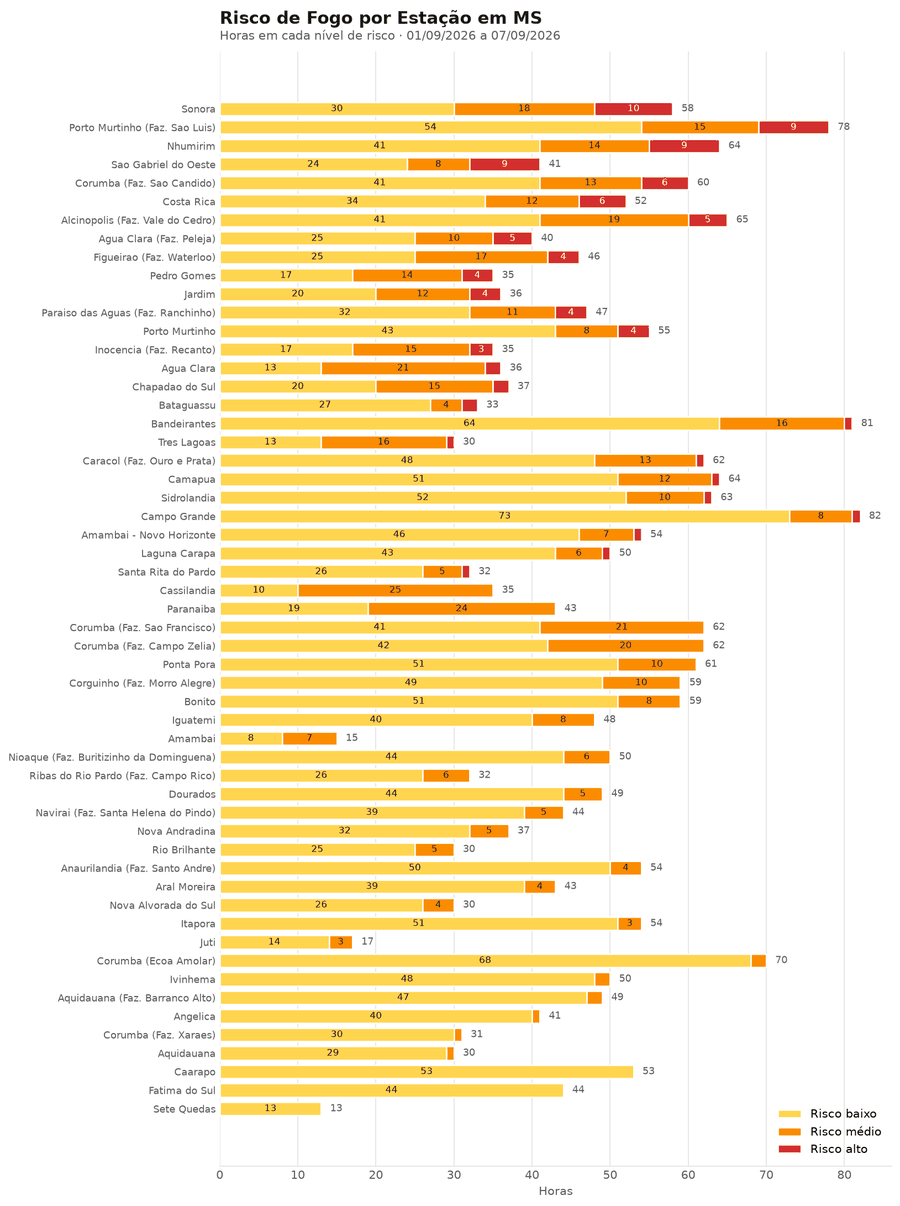
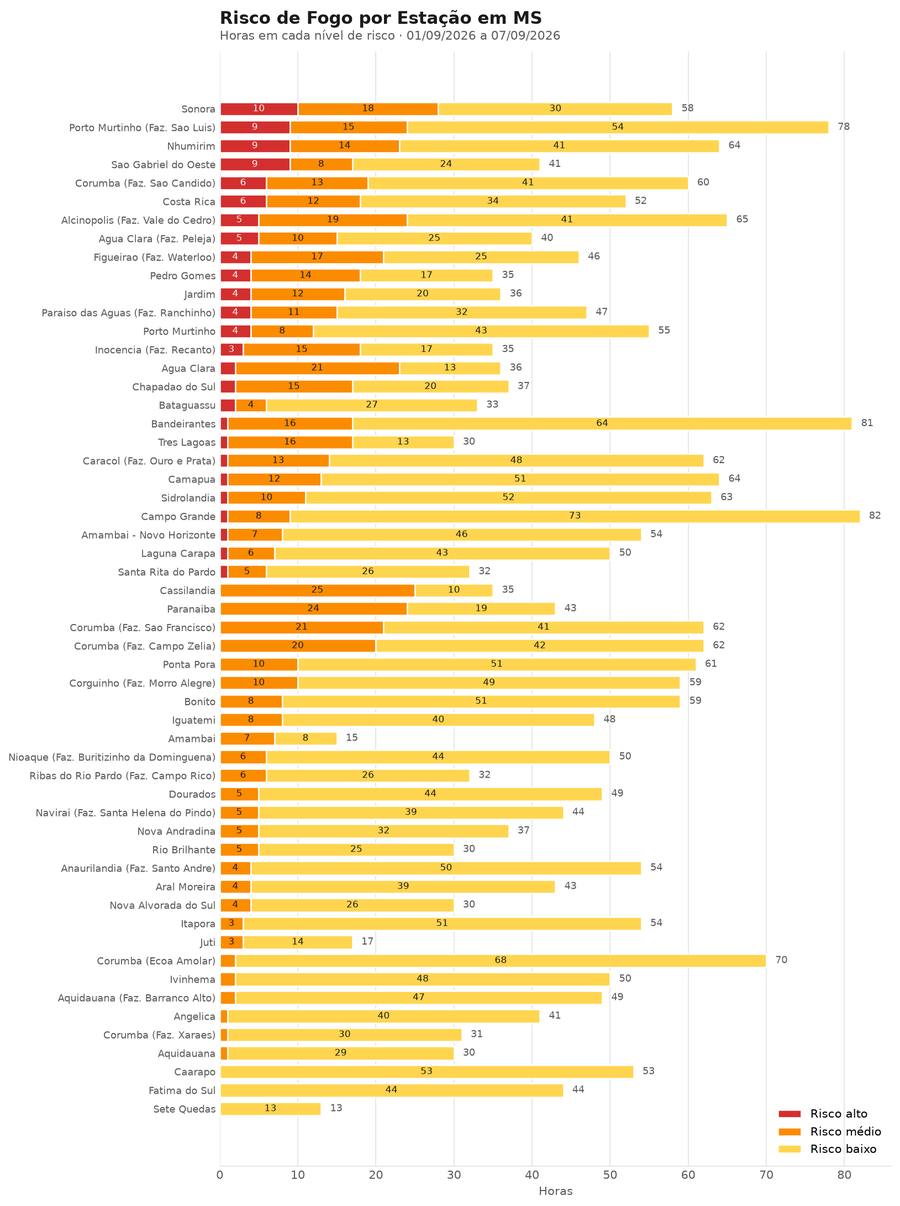
Produto risco_fogo: barras do alto para o baixo, e o dia sem dado em branco no calendário
Os dois ajustes que o painel ganhou, agora nos gráficos do main.py:
- Horas em cada nível: as colunas vão do risco alto para o baixo (NIVEIS_DO_PIOR), com o número
  em branco sobre o vermelho, e a legenda segue a mesma ordem. A legenda do calendário também
  começa pelo risco alto (graficos.calendario a desenha da classe mais alta para a mais baixa).
- Calendário: o dia em que a estação não teve nenhuma hora com as três medidas virava zero
  (fillna) e saía cinza, como "Sem condição", que quer dizer "mediu, e nada valeu". Agora fica
  em branco, e a legenda ganha "Sem dado" quando há dia assim. Na semana de 06 a 12/10/2026,
  Nova Andradina (06 e 07/10) e Bataguassu (11/10) saíam cinza.

As duas tabelas saíram do gerar_graficos para funções próprias (horas_por_nivel e
calendario_de_niveis), com teste. As imagens de exemplo do README foram refeitas com a semana
de 01 a 07/09/2026, a mesma de antes.

diff --git a/modulos/produtos/risco_fogo.py b/modulos/produtos/risco_fogo.py
@@ -356,6 +356,32 @@ def tabela_horaria(completas: list, fuso=None) -> pd.DataFrame:
     return tabela
 
 
+# Do pior nível para o mais brando, nas barras e nas legendas: a estação que chegou ao risco alto
+# mostra o vermelho primeiro (pedido da equipe, 13/10/2026)
+NIVEIS_DO_PIOR = [NIVEL_ALTO, NIVEL_MEDIO, 1]
+
+
+def horas_por_nivel(horas: pd.DataFrame) -> pd.DataFrame:
+    """Quantas horas cada estação passou em cada nível, com as colunas do alto para o baixo.
+
+    Sem filtrar as linhas: reindexar as colunas já descarta o nível 0 e mantém as estações que
+    não atenderam condição nenhuma, que precisam aparecer (em cinza) no calendário.
+    """
+    return (horas.pivot_table(index="Estação", columns=COLUNA_NIVEL_HORA, values="dia", aggfunc="count")
+            .reindex(columns=NIVEIS_DO_PIOR).fillna(0))
+
+
+def calendario_de_niveis(horas: pd.DataFrame, ordem) -> pd.DataFrame:
+    """O pior nível de cada estação em cada dia, com as estações na ordem dada.
+
+    O dia em que a estação não teve nenhuma hora com as três medidas fica vazio, e não zero: zero
+    é "mediu, e nenhuma condição valeu". Até 13/10/2026 ele virava zero, e uma estação parada saía
+    no calendário como se tivesse medido.
+    """
+    return (horas.pivot_table(index="Estação", columns="dia", values=COLUNA_NIVEL_HORA, aggfunc="max")
+            .reindex(ordem))
+
+
 def gerar_graficos(horas: pd.DataFrame, periodo: Periodo, pasta: Path,
                    recorte: config.Recorte = config.RECORTE) -> None:
     """Três gráficos do período: horas por nível, calendário dos dias e as condições de cada dia."""
@@ -364,24 +390,22 @@ def gerar_graficos(horas: pd.DataFrame, periodo: Periodo, pasta: Path,
 
     # Ordem das estações: quem passou mais horas em risco alto primeiro. Vale para os três gráficos,
     # para dar para comparar um com o outro.
-    # Sem filtrar as linhas: reindexar as colunas já descarta o nível 0 e mantém as estações que
-    # não atenderam condição nenhuma, que precisam aparecer (em cinza) no calendário.
-    por_nivel = (horas.pivot_table(index="Estação", columns=COLUNA_NIVEL_HORA, values="dia", aggfunc="count")
-                 .reindex(columns=[1, NIVEL_MEDIO, NIVEL_ALTO]).fillna(0))
+    por_nivel = horas_por_nivel(horas)
     ordem = por_nivel.sort_values([NIVEL_ALTO, NIVEL_MEDIO, 1]).index
 
     graficos.barras_empilhadas(
-        por_nivel.loc[ordem], config.CORES_RISCO[1:], config.ROTULOS_RISCO[1:], titulo,
+        por_nivel.loc[ordem], [config.CORES_RISCO[nivel] for nivel in NIVEIS_DO_PIOR],
+        [config.ROTULOS_RISCO[nivel] for nivel in NIVEIS_DO_PIOR], titulo,
         f"Horas em cada nível de risco · {janela}", "Horas",
         pasta / f"Grafico_Risco_Fogo_Niveis_{recorte.uf}_{periodo.identificador}.png",
-        cores_do_texto=[graficos.TINTA, graficos.TINTA, "white"])
+        cores_do_texto=["white", graficos.TINTA, graficos.TINTA])
 
-    calendario = (horas.pivot_table(index="Estação", columns="dia", values=COLUNA_NIVEL_HORA, aggfunc="max")
-                  .fillna(0).reindex(ordem[::-1]))
+    calendario = calendario_de_niveis(horas, ordem[::-1])
     calendario.columns = [f"{dia:%d/%m}" for dia in calendario.columns]
     graficos.calendario(
         calendario, config.CORES_RISCO, config.ROTULOS_RISCO, titulo, f"Pior nível de cada dia · {janela}",
-        pasta / f"Grafico_Risco_Fogo_Calendario_{recorte.uf}_{periodo.identificador}.png")
+        pasta / f"Grafico_Risco_Fogo_Calendario_{recorte.uf}_{periodo.identificador}.png",
+        sem_dado="Sem dado (nenhuma hora com as três medidas)")
 
     for dia, leituras in horas.groupby("dia"):
         # Mesma ordem dos outros dois gráficos: barras horizontais crescem de baixo para cima

diff --git a/tests/test_risco_fogo.py b/tests/test_risco_fogo.py
@@ -313,3 +313,44 @@ def test_os_titulos_dos_mapas_sao_os_que_a_equipe_publica():
     assert (horas.titulo, horas.ranking, horas.decimais) == (
         "Horas Agregadas de risco alto de fogo em SC", "5 MAIORES EXPOSIÇÕES", 0)
     assert (da_hora.titulo, da_hora.subtitulo) == ("Risco de Fogo em SC", "03/09/2026 11:00 GMT-03")
+
+
+# ---------- Os gráficos do período ----------
+
+def horas_de_teste() -> pd.DataFrame:
+    """A tabela horária do produto, pequena: Alfa mede nos dois dias, Beta só no segundo."""
+    linhas = [("Alfa", date(2026, 10, 6), 3), ("Alfa", date(2026, 10, 6), 1), ("Alfa", date(2026, 10, 7), 0),
+              ("Beta", date(2026, 10, 7), 2), ("Beta", date(2026, 10, 7), 2)]
+    return pd.DataFrame(linhas, columns=["Estação", "dia", risco_fogo.COLUNA_NIVEL_HORA])
+
+
+def test_as_horas_por_nivel_vao_do_alto_para_o_baixo():
+    """Pedido da equipe (13/10/2026): a estação que chegou ao risco alto mostra o vermelho primeiro."""
+    por_nivel = risco_fogo.horas_por_nivel(horas_de_teste())
+
+    assert list(por_nivel.columns) == [risco_fogo.NIVEL_ALTO, risco_fogo.NIVEL_MEDIO, 1]
+    assert por_nivel.loc["Alfa"].tolist() == [1, 0, 1]
+    assert por_nivel.loc["Beta"].tolist() == [0, 2, 0]
+
+
+def test_o_dia_sem_dado_fica_vazio_no_calendario_e_nao_vira_sem_condicao():
+    """Zero é "mediu, e nenhuma condição valeu". Até 13/10/2026 o dia sem dado virava zero."""
+    calendario = risco_fogo.calendario_de_niveis(horas_de_teste(), ["Beta", "Alfa"])
+
+    assert list(calendario.index) == ["Beta", "Alfa"]
+    assert np.isnan(calendario.loc["Beta", date(2026, 10, 6)])        # Beta não mediu no dia 6
+    assert calendario.loc["Alfa", date(2026, 10, 7)] == 0               # Alfa mediu, e nada valeu
+    assert calendario.loc["Alfa", date(2026, 10, 6)] == 3
+
+
+def test_a_legenda_do_calendario_vai_do_alto_e_explica_o_branco(monkeypatch, tmp_path):
+    from modulos import graficos
+    figuras = []
+    monkeypatch.setattr(graficos, "salvar", lambda fig, caminho: figuras.append(fig))
+    tabela = pd.DataFrame({"06/10": [3.0, np.nan], "07/10": [0.0, 2.0]}, index=["Alfa", "Beta"])
+
+    graficos.calendario(tabela, config.CORES_RISCO, config.ROTULOS_RISCO, "Título", "Subtítulo",
+                        tmp_path / "calendario.png", sem_dado="Sem dado")
+
+    rotulos = [texto.get_text() for texto in figuras[0].axes[0].get_legend().get_texts()]
+    assert rotulos == ["Risco alto", "Risco médio", "Risco baixo", "Sem condição", "Sem dado"]

diff --git a/modulos/graficos.py b/modulos/graficos.py
@@ -94,10 +94,16 @@ def barras_agrupadas(tabela: pd.DataFrame, cores: list[str], rotulos: list[str],
 
 
 def calendario(tabela: pd.DataFrame, cores: list[str], rotulos: list[str], titulo: str, subtitulo: str,
-               caminho: Path) -> None:
-    """Um quadrado para cada cruzamento de linha (ex.: estação) e coluna (ex.: dia), colorido pela classe."""
+               caminho: Path, sem_dado: str | None = None) -> None:
+    """Um quadrado para cada cruzamento de linha (ex.: estação) e coluna (ex.: dia), colorido pela classe.
+
+    A classe i tem a cor `cores[i]`, e a legenda vai da classe mais alta para a mais baixa: a que
+    mais pesa vem primeiro. O cruzamento sem valor fica em branco; com `sem_dado`, a legenda diz o
+    que o branco quer dizer.
+    """
     fig, ax = nova_figura(titulo, subtitulo, 11, 0.21 * len(tabela) + 2)
-    ax.imshow(tabela.to_numpy(), aspect="auto", cmap=ListedColormap(cores), vmin=-0.5, vmax=len(cores) - 0.5)
+    paleta = ListedColormap(cores).with_extremes(bad="white")
+    ax.imshow(tabela.to_numpy(dtype=float), aspect="auto", cmap=paleta, vmin=-0.5, vmax=len(cores) - 0.5)
 
     ax.set_xticks(range(len(tabela.columns)), tabela.columns, fontsize=9.5)
     ax.set_yticks(range(len(tabela)), tabela.index, fontsize=8.5)
@@ -106,6 +112,8 @@ def calendario(tabela: pd.DataFrame, cores: list[str], rotulos: list[str], titul
     ax.set_yticks(np.arange(len(tabela)) - 0.5, minor=True)
     ax.grid(which="minor", color="white", linewidth=1.5)
     ax.spines["bottom"].set_visible(False)
-    ax.legend(handles=[Patch(facecolor=cor, label=rotulo) for cor, rotulo in zip(cores, rotulos)],
-              loc="upper left", bbox_to_anchor=(1.01, 1), frameon=False, fontsize=10)
+    legenda = [Patch(facecolor=cor, label=rotulo) for cor, rotulo in zip(cores[::-1], rotulos[::-1])]
+    if sem_dado and tabela.isna().to_numpy().any():
+        legenda.append(Patch(facecolor="white", edgecolor=TINTA_FRACA, linewidth=0.8, label=sem_dado))
+    ax.legend(handles=legenda, loc="upper left", bbox_to_anchor=(1.01, 1), frameon=False, fontsize=10)
     salvar(fig, caminho)

diff --git a/CHANGELOG.md b/CHANGELOG.md
@@ -20,8 +20,11 @@ Ajustes pedidos pela unidade depois da apresentação do projeto (13/10/2026), e
 - **Painel, Risco de Fogo: os níveis vão do alto para o baixo.** No gráfico "Horas em cada nível", cada barra começa pelo vermelho (risco alto), depois o laranja e o amarelo; as legendas das barras e do calendário seguem a mesma ordem.
 - **Painel, Risco de Fogo: o calendário explica o dia vazio.** É o dia em que a estação não teve nenhuma hora com as três medidas (temperatura máxima, umidade mínima e rajada): ficou sem transmitir, ou um dos sensores ficou sem dado. É diferente do cinza, em que ela mediu e nenhuma condição valeu.
 
+- **Produto `risco_fogo`: o gráfico de horas em cada nível também vai do alto para o baixo**, como no painel: cada barra começa pelo vermelho, e a legenda segue a mesma ordem. A legenda do calendário também passou a começar pelo risco alto.
+
 ### Corrigido
 
+- **Produto `risco_fogo`: no calendário, o dia sem dado não sai mais como "Sem condição".** O dia em que a estação não teve nenhuma hora com as três medidas virava zero e saía cinza, como se ela tivesse medido e nenhuma condição tivesse valido. Agora ele fica em branco, e a legenda ganha "Sem dado" quando há dia assim. Na semana de 06 a 12/10/2026, por exemplo, Nova Andradina (06 e 07/10) e Bataguassu (11/10) saíam cinza.
 - **Quando o INMET recusa por excesso de consultas, o painel e o `main.py` esperam, em vez de perder a estação.** O INMET aceita 100 consultas por minuto de cada endereço de rede, contando todas as consultas que saem dele (medido em 09/10/2026), e uma carga do painel ou do `main.py` com as estações vizinhas faz umas 100. A recusa vinha contando como falha: três seguidas, em 6 segundos, deixavam a estação de fora, como "Falha na consulta", e o mapa saía sem ela. Rodando o `relatorio_inmet` e logo depois o `risco_fogo`, por exemplo, o segundo perdia as primeiras estações de MS. Agora se espera o minuto virar, com a espera dobrando a cada recusa (até uns 2 minutos).
 
 ## [0.3.1] — 08/10/2026

diff --git a/README.md b/README.md
@@ -318,8 +318,8 @@ saida/risco_fogo/dia/20260903/
 | `Mapa_Risco_Fogo_Horas_MS_<datas>.png` | **Horas em risco alto — pontual:** quantas horas cada estação passou no nível 3 |
 | `Mapa_Risco_Fogo_Horas_MS_<datas>_interpolado.png` | **Horas em risco alto — interpolado:** o mesmo, sobre o estado inteiro |
 | `horas/Mapa_Risco_Fogo_MS_<data>_<hora>h.png` | **Mapa horário** (só interpolado): o nível de risco naquela hora, com o nível de cada estação e os pontos das condições que ela atendeu |
-| `Grafico_Risco_Fogo_Niveis_MS_<datas>.png` | **Só no período.** Horas que cada estação passou em cada nível, com o total ao lado da barra |
-| `Grafico_Risco_Fogo_Calendario_MS_<datas>.png` | **Só no período.** Um quadrado por dia de cada estação, na cor do pior nível daquele dia |
+| `Grafico_Risco_Fogo_Niveis_MS_<datas>.png` | **Só no período.** Horas que cada estação passou em cada nível, com o total ao lado da barra. Cada barra vai do risco alto para o baixo: a estação que chegou ao alto mostra o vermelho primeiro |
+| `Grafico_Risco_Fogo_Calendario_MS_<datas>.png` | **Só no período.** Um quadrado por dia de cada estação, na cor do pior nível daquele dia. **Em branco** fica o dia sem nenhuma hora com as três medidas (estação sem transmitir, ou um sensor sem dado), que a legenda chama de "Sem dado"; **cinza** é o dia medido em que nenhuma condição valeu |
 | `graficosDeCondicoes/Grafico_Risco_Fogo_Condicoes_MS_<data>.png` | **Só no período.** Um arquivo por dia: horas em que cada estação atendeu cada condição |
 
 O **nível máximo** mostra o pico; as **horas em risco alto** mostram a duração — ficar 6 horas em 30-30-30 é bem diferente de ficar 1 hora. Em dias em que nenhuma estação chega ao nível 3, os mapas de horas ficam zerados.
